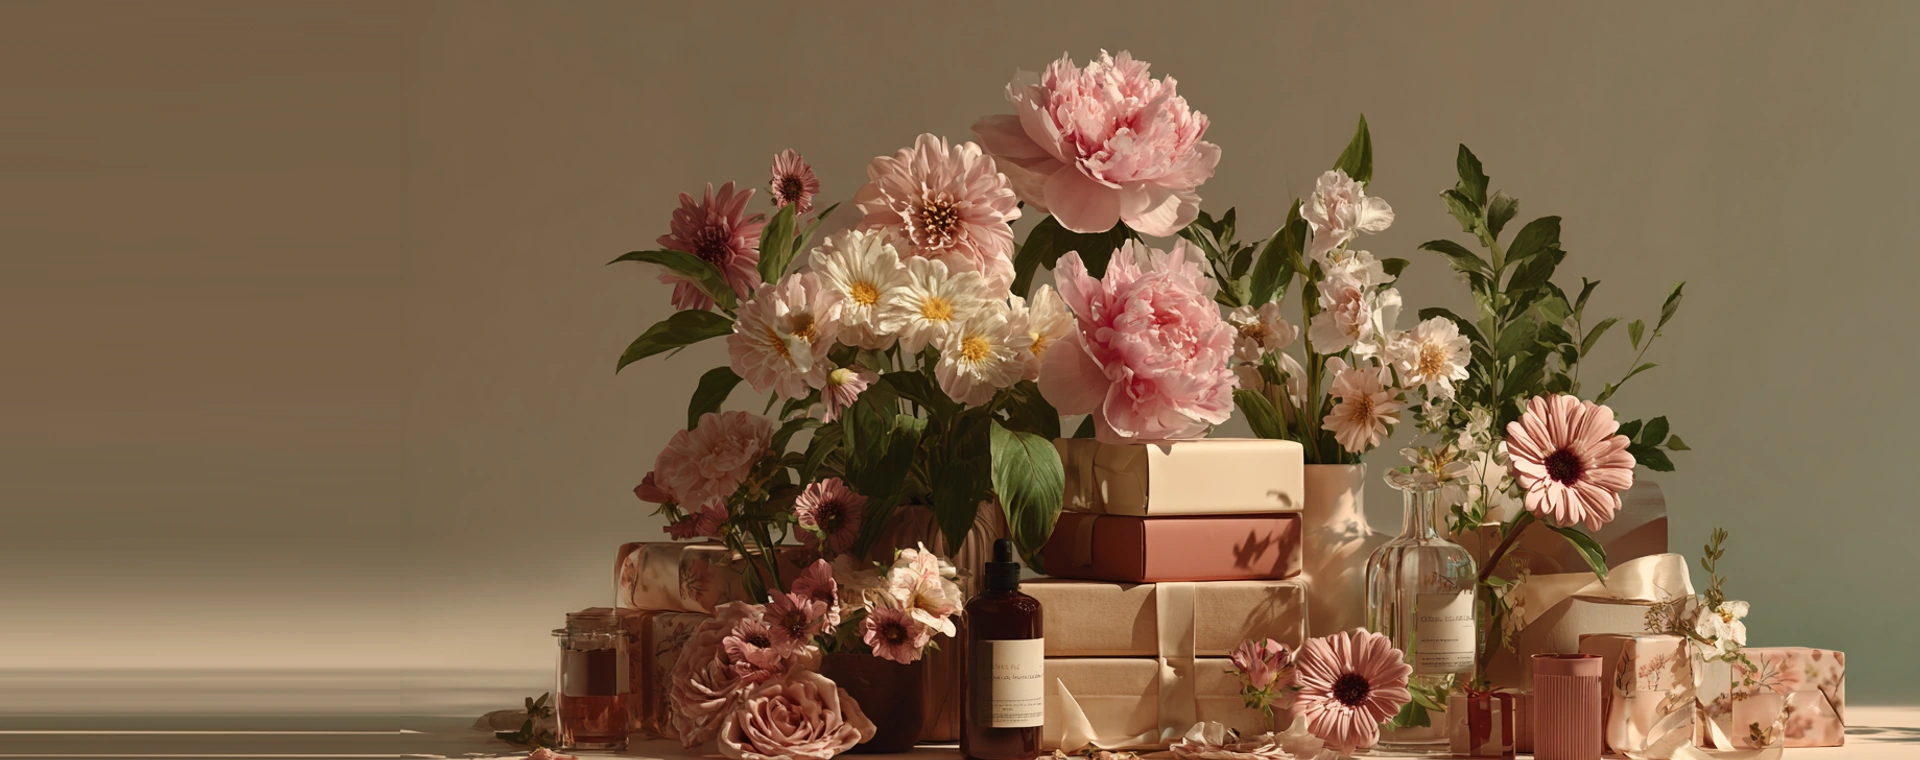
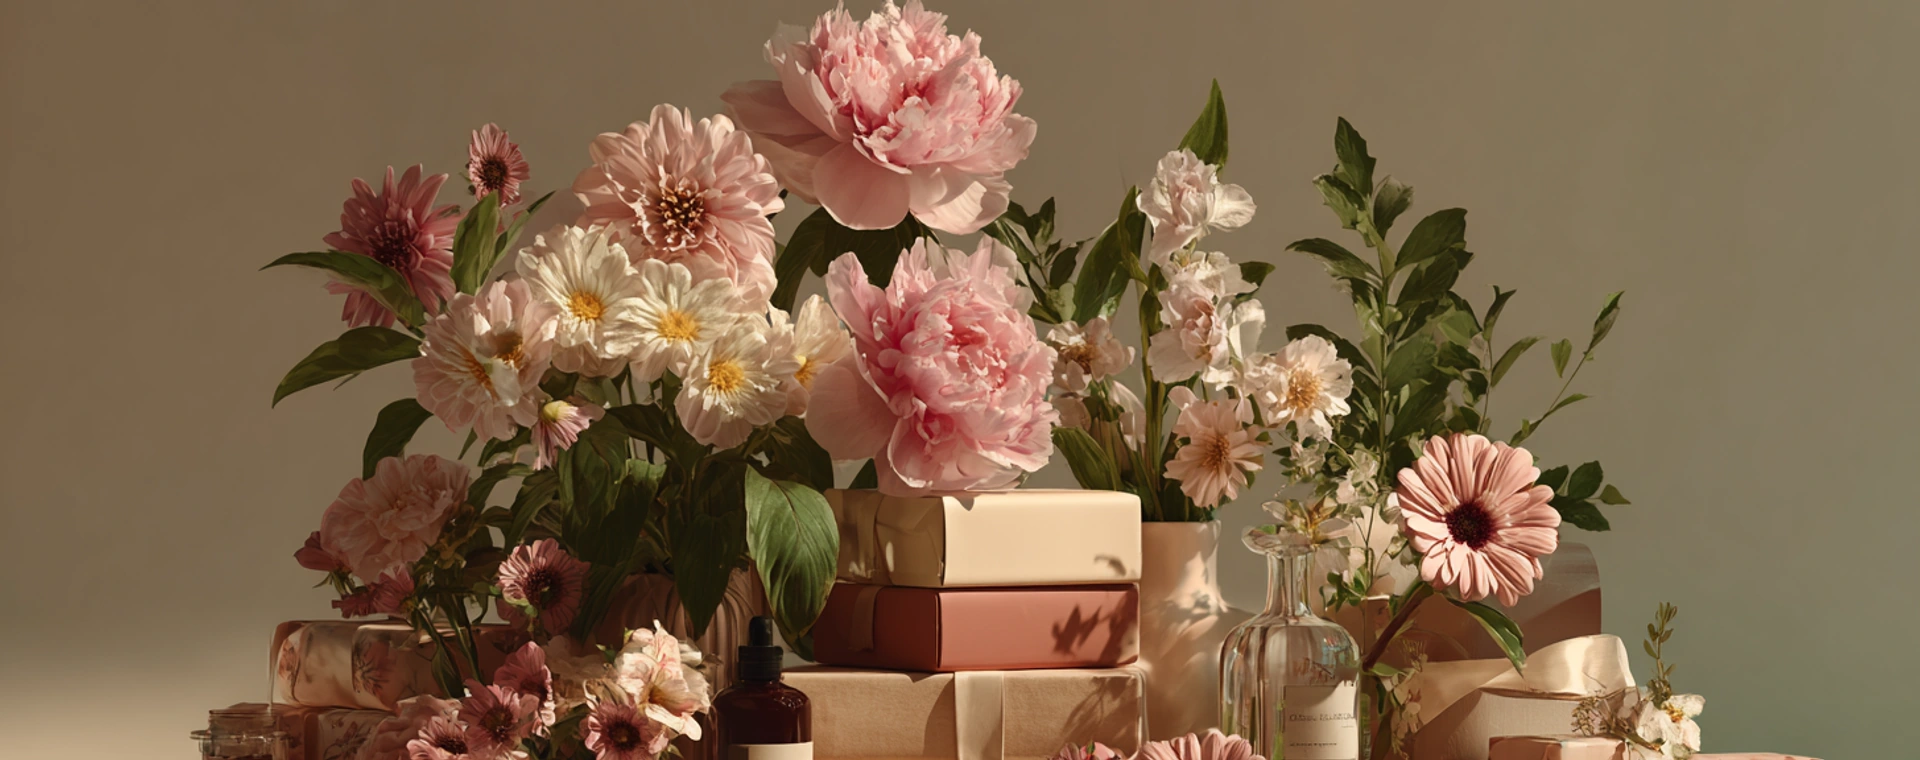
revert(hero): вернуть баннер opt-wholesale к исходному кадру (как в 69fbf64)
Откатывает 922f1a2 (сдвиг фото вправо + надстройка фона слева) и связанные
мобильные правки 3c5d562/58e8995 (object-position 60%/50%). Десктоп и мобайл —
как было сразу после запуска кампании: центрированный кадр 1920×760,
object-position center на мобиле, center right на десктопе.

Claude-Session: https://claude.ai/code/session_01TJra12CLSP7hbe1Lx23W3W

diff --git a/src/components/HeroBanner.module.css b/src/components/HeroBanner.module.css
@@ -114,9 +114,7 @@
 @media (max-width: 820px) {
   .promobanner { margin: 14px 16px 0; min-height: 0; flex-direction: column; align-items: stretch; }
   .promobanner .photo { position: relative; height: 230px; }
-  /* Кадр сдвинут вправо (у файла слева добавлен фон под десктопный текст) —
-     на мобиле текста поверх нет, поэтому показываем композицию, а не пустой левый край. */
-  .promobanner .img { object-position: 50% center; }
+  .promobanner .img { object-position: center; }
   .promobanner .scrim { background: linear-gradient(180deg, rgba(251,247,243,.6), transparent 55%, rgba(40,20,30,.25)); }
   .promobanner .route { right: 14px; top: 14px; padding: 10px 13px; }
   .pbContent { max-width: 100%; padding: 26px 22px; background: var(--paper); }
@@ -169,7 +167,7 @@
 @media (max-width: 760px) {
   .catban { flex-direction: column; align-items: stretch; min-height: 0; }
   .catban .photo { position: relative; height: 150px; }
-  .catban .img { object-position: 50% center; }
+  .catban .img { object-position: center; }
   .catban .scrim { background: linear-gradient(180deg, rgba(251,247,243,.5), transparent 60%); }
   .cbContent { max-width: 100%; padding: 20px; background: var(--bg-card); }
   .cbTitle { font-size: clamp(20px, 5.6vw, 28px); line-height: 1.14; text-wrap: balance; }
